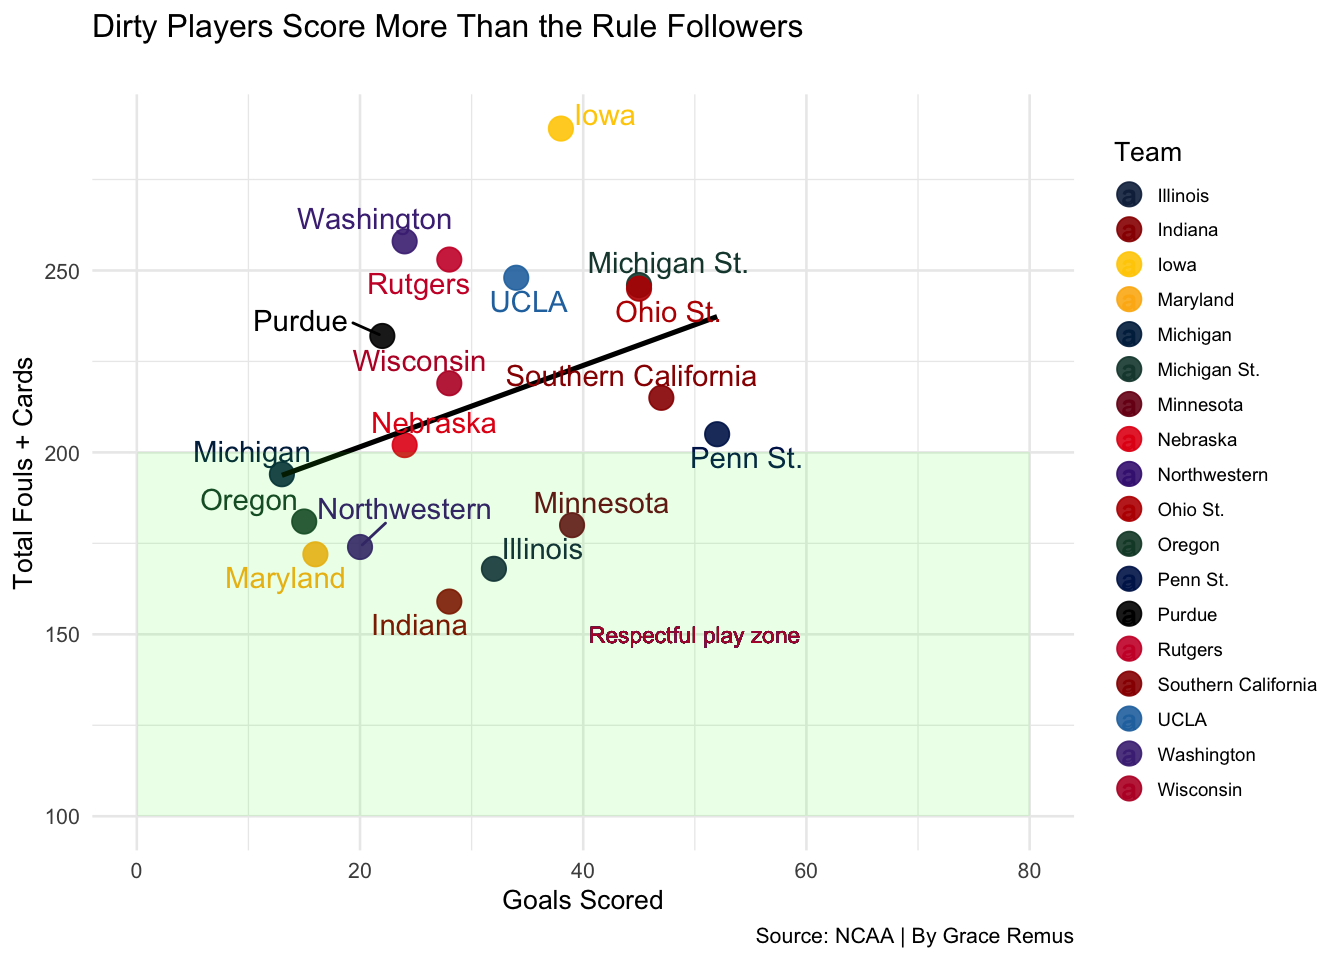
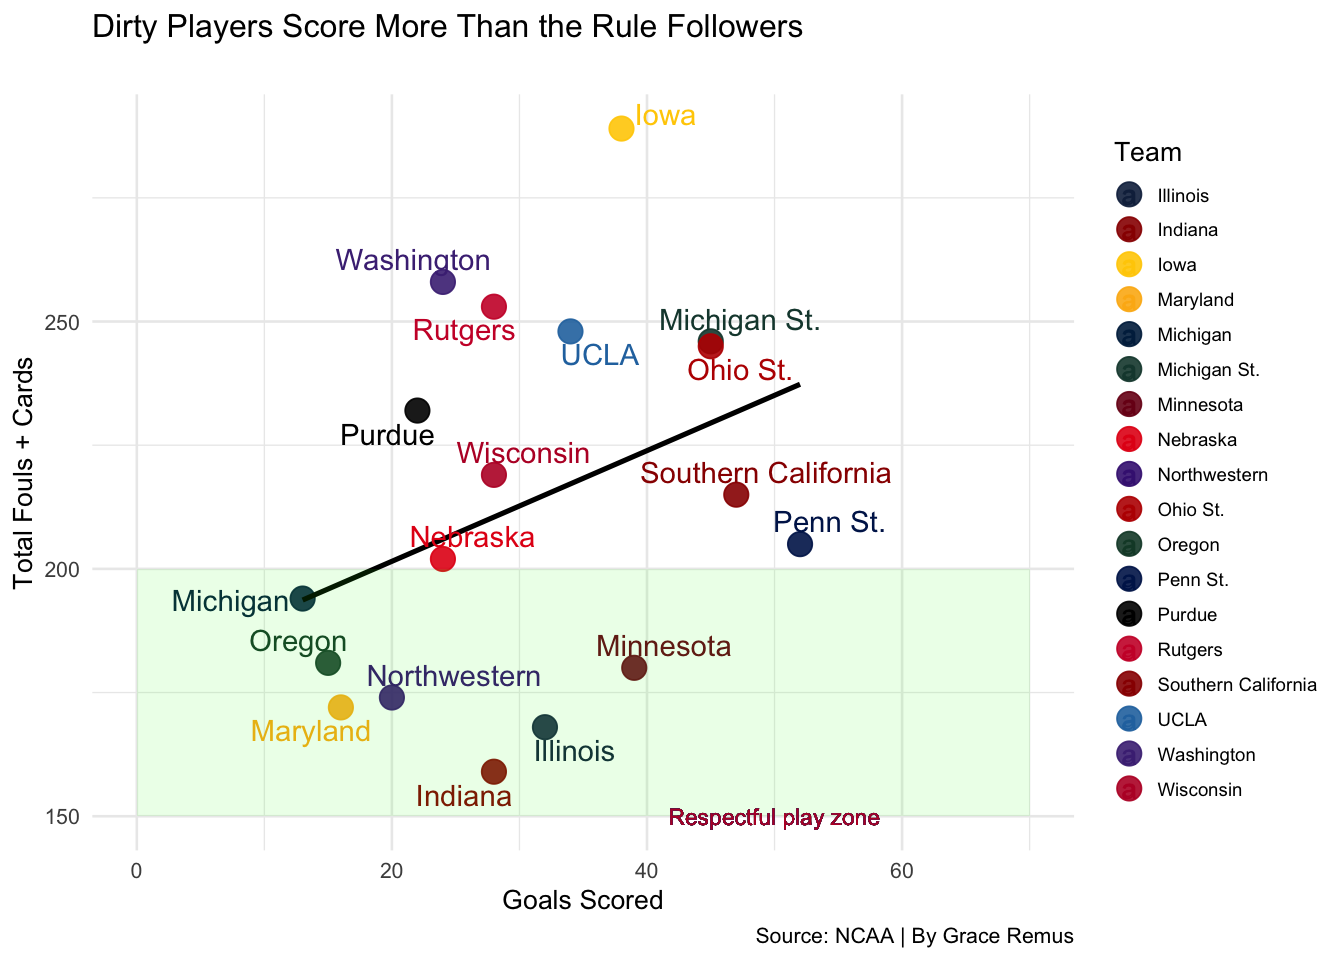
imscared

diff --git a/posts/panthers-2024-2025-Stanley-Cup-run/index.html b/posts/panthers-2024-2025-Stanley-Cup-run/index.html
@@ -292,8 +292,8 @@ pre > code.sourceCode > span > a:first-child::before { text-decoration: underlin
 <span id="cb3-13"><a href="#cb3-13" aria-hidden="true" tabindex="-1"></a>  <span class="fu">geom_smooth</span>(<span class="at">method =</span> <span class="st">"lm"</span>, <span class="at">se =</span> <span class="cn">FALSE</span>, <span class="at">color =</span> <span class="st">"black"</span>) <span class="sc">+</span></span>
 <span id="cb3-14"><a href="#cb3-14" aria-hidden="true" tabindex="-1"></a>  <span class="fu">geom_text_repel</span>(<span class="at">data=</span>discipline_goals_2024, <span class="fu">aes</span>(<span class="at">x=</span>TotalGoals, <span class="at">y=</span>TotalDiscipline, <span class="at">label=</span>Institution)) <span class="sc">+</span></span>
 <span id="cb3-15"><a href="#cb3-15" aria-hidden="true" tabindex="-1"></a>  <span class="fu">annotate</span>(<span class="st">"rect"</span>, <span class="at">fill =</span> <span class="st">"green"</span>, <span class="at">alpha =</span> <span class="fl">0.1</span>, </span>
-<span id="cb3-16"><a href="#cb3-16" aria-hidden="true" tabindex="-1"></a>        <span class="at">xmin =</span> <span class="dv">0</span>, <span class="at">xmax =</span> <span class="dv">80</span>,</span>
-<span id="cb3-17"><a href="#cb3-17" aria-hidden="true" tabindex="-1"></a>        <span class="at">ymin =</span> <span class="dv">100</span>, <span class="at">ymax =</span> <span class="dv">200</span>) <span class="sc">+</span></span>
+<span id="cb3-16"><a href="#cb3-16" aria-hidden="true" tabindex="-1"></a>        <span class="at">xmin =</span> <span class="dv">0</span>, <span class="at">xmax =</span> <span class="dv">70</span>,</span>
+<span id="cb3-17"><a href="#cb3-17" aria-hidden="true" tabindex="-1"></a>        <span class="at">ymin =</span> <span class="dv">150</span>, <span class="at">ymax =</span> <span class="dv">200</span>) <span class="sc">+</span></span>
 <span id="cb3-18"><a href="#cb3-18" aria-hidden="true" tabindex="-1"></a>  <span class="fu">geom_text</span>(<span class="fu">aes</span>(<span class="at">x=</span><span class="dv">50</span>, <span class="at">y=</span><span class="dv">150</span>, <span class="at">label=</span><span class="st">"Respectful play zone"</span>), <span class="at">size=</span><span class="dv">3</span>)<span class="sc">+</span></span>
 <span id="cb3-19"><a href="#cb3-19" aria-hidden="true" tabindex="-1"></a>  <span class="fu">scale_color_manual</span>(<span class="at">values =</span> big10_colors) <span class="sc">+</span></span>
 <span id="cb3-20"><a href="#cb3-20" aria-hidden="true" tabindex="-1"></a>  <span class="fu">labs</span>(</span>
@@ -344,7 +344,7 @@ pre > code.sourceCode > span > a:first-child::before { text-decoration: underlin
 <details class="code-fold">
 <summary>Code</summary>
 <div class="code-copy-outer-scaffold"><div class="sourceCode cell-code" id="cb5"><pre class="sourceCode r code-with-copy"><code class="sourceCode r"><span id="cb5-1"><a href="#cb5-1" aria-hidden="true" tabindex="-1"></a>  <span class="fu">labs</span>(</span>
-<span id="cb5-2"><a href="#cb5-2" aria-hidden="true" tabindex="-1"></a>    <span class="at">title =</span> <span class="st">"Iowa Women's Soccer: Score Differential vs. Fouls per Game"</span>,</span>
+<span id="cb5-2"><a href="#cb5-2" aria-hidden="true" tabindex="-1"></a>    <span class="at">title =</span> <span class="st">"Iowa Women's Soccer: Score Differential vs. Fouls per Game"</span>, <span class="at">subtitle =</span> <span class="st">"iowa got less agressive throughout the season"</span>, <span class="at">caption =</span> <span class="st">"Source: Iowa Athletics"</span>,</span>
 <span id="cb5-3"><a href="#cb5-3" aria-hidden="true" tabindex="-1"></a>    <span class="at">x =</span> <span class="st">"Game Number"</span>,</span>
 <span id="cb5-4"><a href="#cb5-4" aria-hidden="true" tabindex="-1"></a>    <span class="at">y =</span> <span class="st">"Value"</span></span>
 <span id="cb5-5"><a href="#cb5-5" aria-hidden="true" tabindex="-1"></a>  ) <span class="sc">+</span></span>

diff --git a/index.html b/index.html
@@ -209,7 +209,7 @@ window.Quarto = {
 
 <div class="quarto-listing quarto-listing-container-default" id="listing-listing">
 <div class="list quarto-listing-default">
-<div class="quarto-post image-right" data-index="0" data-categories="c29jY2VyJTJDbmNhYSUyQ2ZvdWxz" data-listing-date-sort="1765260000000" data-listing-file-modified-sort="1764966232727" data-listing-date-modified-sort="NaN" data-listing-reading-time-sort="5" data-listing-word-count-sort="803">
+<div class="quarto-post image-right" data-index="0" data-categories="c29jY2VyJTJDbmNhYSUyQ2ZvdWxz" data-listing-date-sort="1765260000000" data-listing-file-modified-sort="1764967002864" data-listing-date-modified-sort="NaN" data-listing-reading-time-sort="5" data-listing-word-count-sort="817">
 <div class="thumbnail"><a href="./posts/panthers-2024-2025-Stanley-Cup-run/index.html" class="no-external">
 
 <img loading="lazy" src="./posts/panthers-2024-2025-Stanley-Cup-run/blairwalsh.png" class="thumbnail-image">
